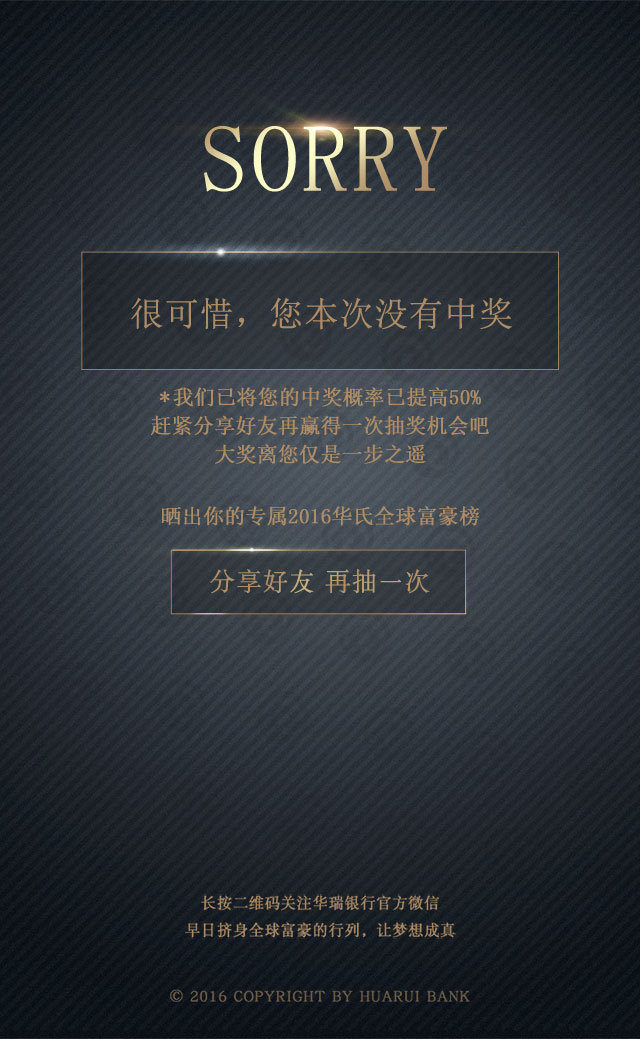
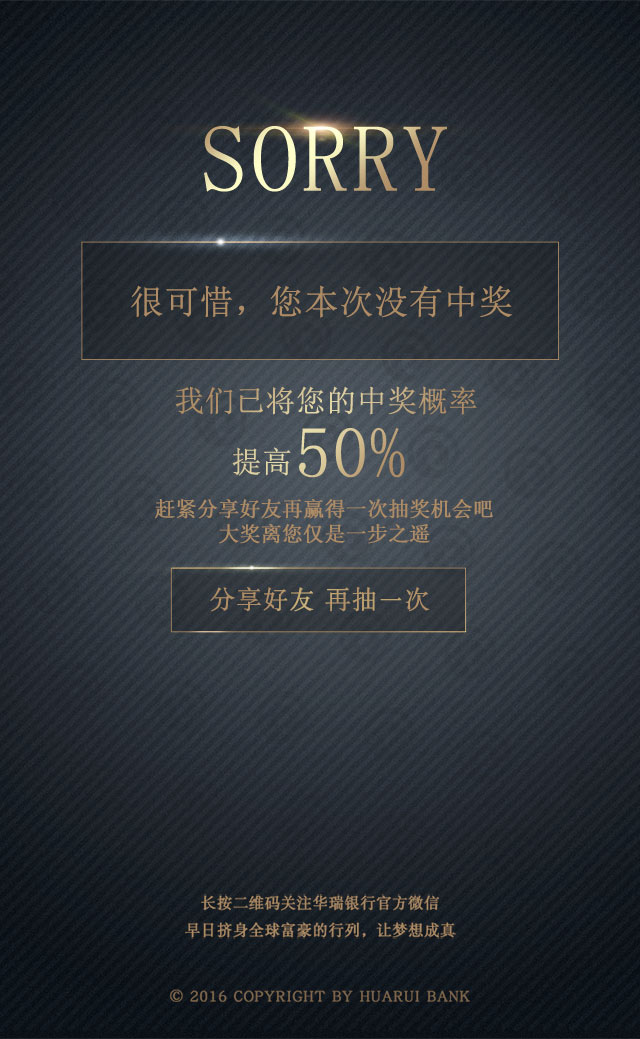
样式修改

diff --git a/public/js/common.js b/public/js/common.js
@@ -1,26 +1,57 @@
-//tips   
-window.onresize = function(){
-  windowWH(); 
+//tips
+window.onresize = function() {
+        windowWH();
+    }
+    //windowWH
+function windowWH() {
+    var ww = $(window).width();
+    var wh = $(window).height();
+    var bghei = 1039;
+    var autohei = 1008;
+    var ftop = (wh - autohei) / 2;
+    var bgauto1 = -(bghei - wh) / 2;
+    var bgauto2 = -(bghei - autohei) / 2;
+
+    if (ww < wh && wh >= autohei) {
+        $(".bgimg").css({
+            "top": bgauto1 + "px"
+        });
+        $(".wrap").css({
+            height: wh + "px"
+        });
+        $(".fix-height").css({
+            "padding-top": ftop + "px"
+        });
+        $(".swiper-container").css({
+            height: wh + "px"
+        });
+    } else if (ww < wh && wh < autohei) {
+        $(".bgimg").css({
+            "top": bgauto2 + "px"
+        });
+        $(".wrap").css({
+            height: autohei + "px"
+        });
+        $(".fix-height").css({
+            "padding-top": "0"
+        });
+        $(".swiper-container").css({
+            height: autohei + "px"
+        });
+    }
 }
-//windowWH
-function windowWH(){
-  var ww = $(window).width();
-  var wh =  $(window).height();
-  var bghei = 1039;
-  var autohei = 1008;
-  var ftop = (wh - autohei)/2;
-  var bgauto1 = -(bghei-wh)/2;
-  var bgauto2 = -(bghei-autohei)/2;
-  
-  if(ww < wh && wh >= autohei){
-	  $(".bgimg").css({"top":bgauto1+"px"});
-	  $(".wrap").css({height:wh+"px"});
-	  $(".fix-height").css({"padding-top":ftop+"px"});
-	  $(".swiper-container").css({height:wh+"px"});
-  }else if(ww < wh && wh < autohei){
-	  $(".bgimg").css({"top":bgauto2+"px"});
-	  $(".wrap").css({height:autohei+"px"});
-	  $(".fix-height").css({"padding-top":"0"});    
-	  $(".swiper-container").css({height:autohei+"px"});  
-  }
-}
+
+/*榜单浮层方法*/
+function showjm() {
+    $(".showsdiv,.showsbgdiv").fadeIn()
+    setTimeout(function() {
+        $(".showsdiv,.showsbgdiv").fadeOut();
+    }, 2000);
+};
+
+
+
+/*浮层关闭*/
+function jmClose(){
+    $(".showsdiv,.showsbgdiv").fadeOut();
+};

diff --git a/public/css/main.css b/public/css/main.css
@@ -89,11 +89,11 @@ select,input,textarea{font-family:inherit; outline:none;}
 	}
 	65%{
 		left:312px;
-		top:-8px;	
+		top:-8px;
 	}
 	85%{
 		left:312px;
-		top:56px;	
+		top:56px;
 	}
 	100%{
 		left:156px;
@@ -314,3 +314,8 @@ select,input,textarea{font-family:inherit; outline:none;}
 
 
 
+/*榜单浮层*/
+.showsbgdiv{width:640px;height:100%;position:fixed;top:0px;left:50%;margin-left:-320px;margin-top:0px;background: url(../images/show_bg.jpg) no-repeat center;display:none;z-index:1000}
+.showsdiv{width:640px;height:auto; position:absolute;top:20%;left:50%;margin-left:-320px;display:none; z-index:1000000}
+.showsdiv .showsbox{width:640px; height:500px; position:relative;background: url(../images/show_jm.png) no-repeat center;}
+.showsdiv .showsbox .cglcose{ width:140px; height:140px; position:absolute; top:0; right:0}

diff --git a/resources/views/list.blade.php b/resources/views/list.blade.php
@@ -8,8 +8,8 @@
     </tr>
     @foreach ($list as $key=>$value)
     <tr @if ($value['isUser'] == true){!! 'class="first"'!!}@endif>
-      <td>{{$key+1}}<img src="/images/@if ($value['scale'] > 0 ){{ 'up.png' }}@elseif ($value['scale'] < 0 ){{ 'down.png' }}@else{{'equal.png'}}@endif" /></td>
-      <td>{{$value['name']}}</td>
+      <td>{{$key+1}}<!--<img src="/images/@if ($value['scale'] > 0 ){{ 'up.png' }}@elseif ($value['scale'] < 0 ){{ 'down.png' }}@else{{'equal.png'}}@endif" />--></td>
+      <td onclick="showjm();">{{$value['name']}}</td>
       <td>{{$value['wealth']}}</td>
       <!--<td>@if ($value['scale'] > 0 ){{ '+%' }}@elseif ($value['scale'] < 0 ){{ '-%' }}@endif{{abs($value['scale'])}}</td>-->
       <td>{{$value['from']}}</td>

diff --git a/resources/views/index.blade.php b/resources/views/index.blade.php
@@ -280,10 +280,12 @@
         </div>
       </div>
       <!--填写信息-->
-
-
+          <!--榜单浮层-->
+        <div class="showsdiv" >
+           <div class="showsbox"><a href="javascript:;" onclick="jmClose();" class="cglcose"></a></div>
+        </div>
+        <div class="showsbgdiv"></div>
     </div>
-
 <script>
 function getAward()
 {
